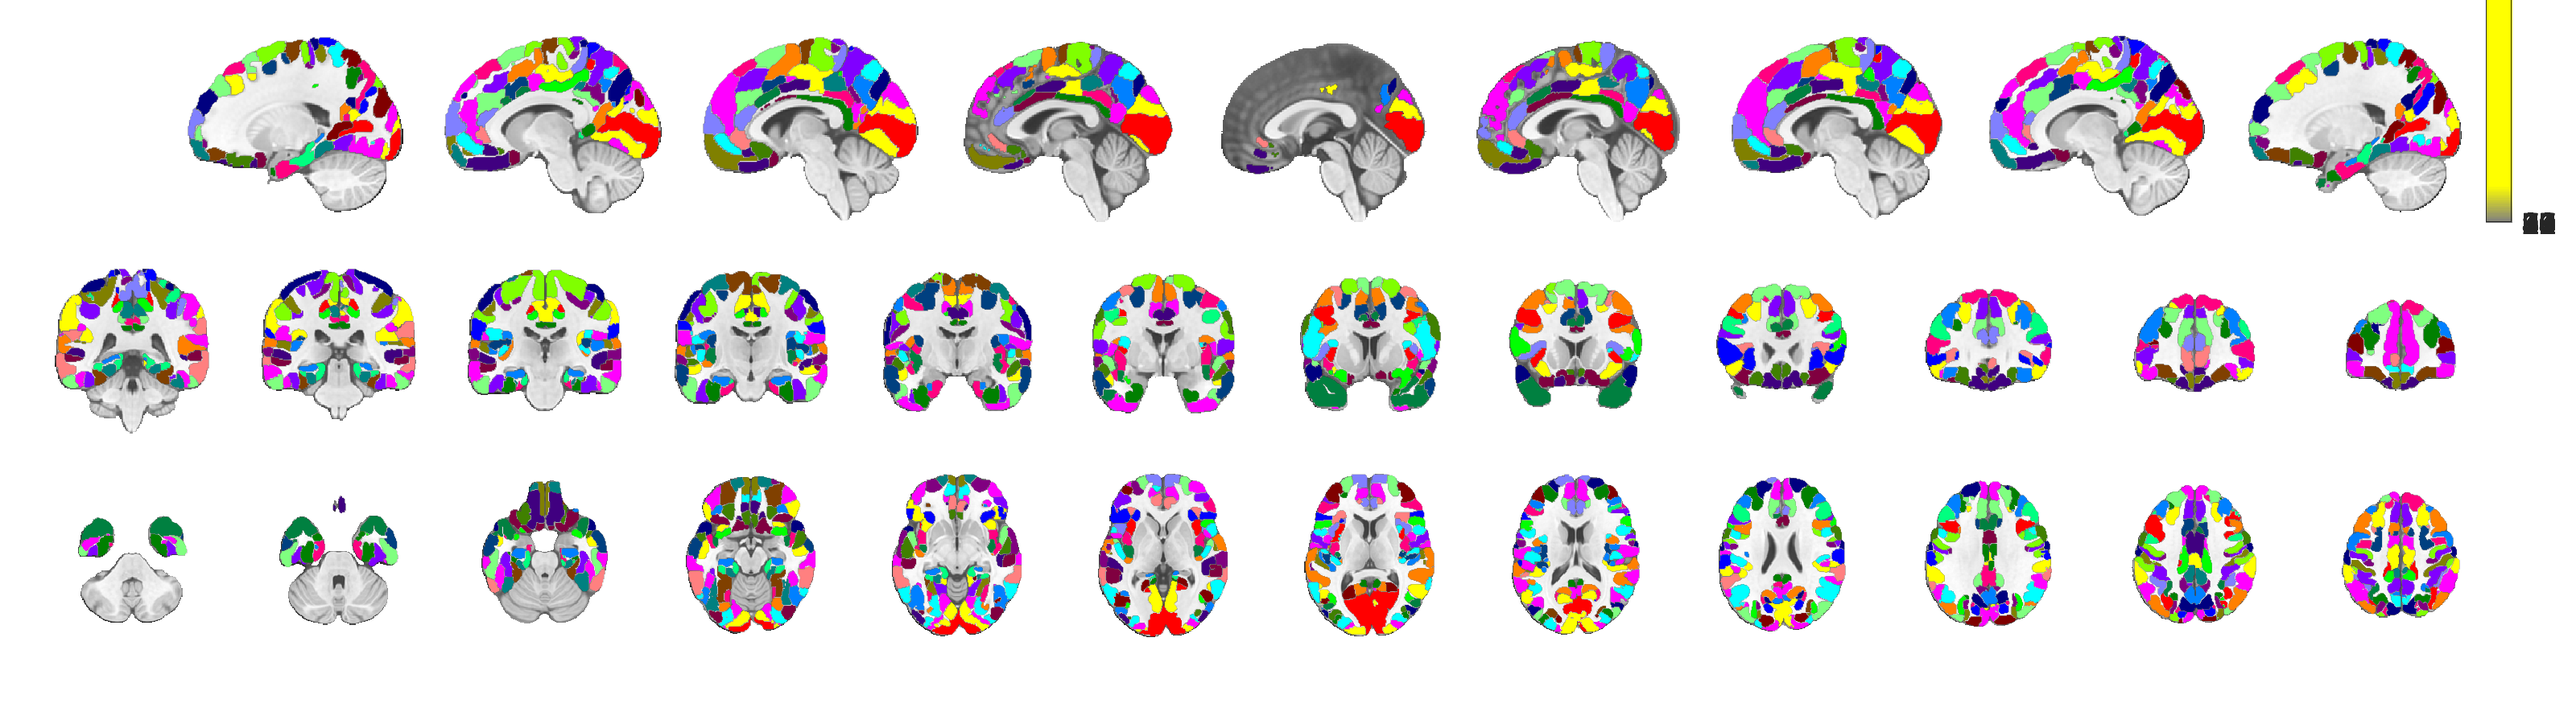
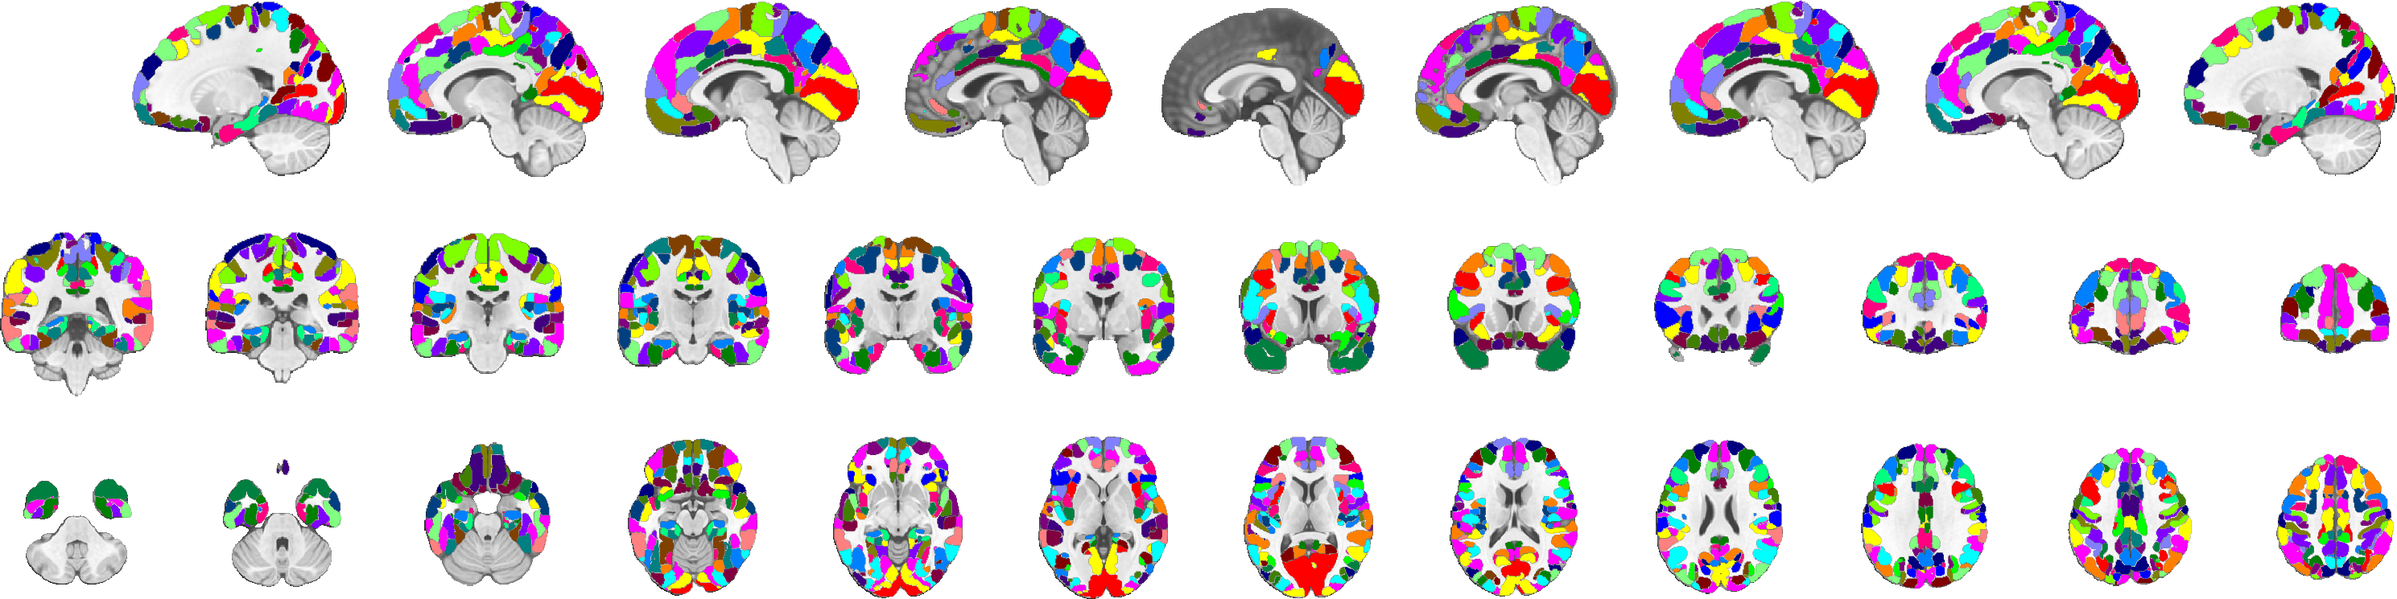
Incorporated spacetop into glasser diagnostics

diff --git a/Atlases_and_parcellations/2016_Glasser_Nature_HumanConnectomeParcellation/diagnostics/compare_registration_fusion_with_old_glasser.m b/Atlases_and_parcellations/2016_Glasser_Nature_HumanConnectomeParcellation/diagnostics/compare_registration_fusion_with_old_glasser.m
@@ -126,6 +126,11 @@ saveas(gcf,'dice_map_fmriprep_vs_fsl_glassers.png');
 
 %% let's also compare between studies within template
 
+% this is not cross validation, it's not an estimate of how similar
+% the glasser atlas will be to atlases derived from future studies, it's a
+% comparison of how homogeneous the studies we used to generate the atlas
+% are with respect to one another.
+
 addpath('/dartfs-hpc/rc/home/m/f0042vm/software/spm12')
 addpath(genpath('/dartfs-hpc/rc/home/m/f0042vm/software/canlab/CanlabCore/'))
 
@@ -135,46 +140,135 @@ lh_lbls = readtable('../lctx_labels.txt');
 rh_lbls = readtable('../rctx_labels.txt');
 lbls = [lh_lbls{:,1}; rh_lbls{:,1}];
 
-glasser = cell(2,1);
-studies = {'paingen','bmrk5'};
+glasser = cell(3,1);
+studies = {'paingen','bmrk5','spacetop'};
 for i = 1:length(glasser)
     study = studies{i}
     glasser{i} = atlas(sprintf('../%s_%s_atlas.nii.gz', study, SPACE));
     glasser{i}.labels = lbls';
 end
 
-% save individual atlases for inspection
+glasser{4} = glasser{2};
+glasser{5} = glasser{3}.resample_space(glasser{2}, 'nearest');
+assert(all(ismember(glasser{4}.labels, glasser{5}.labels)))
+
 glasser{2} = glasser{2}.resample_space(glasser{1}, 'nearest');
-
-
 assert(all(ismember(glasser{1}.labels, glasser{2}.labels)))
+
+glasser{3} = glasser{3}.resample_space(glasser{1}, 'nearest');
+assert(all(ismember(glasser{1}.labels, glasser{3}.labels)))
+
 labels = glasser{1}.labels;
-dicecoef = zeros(size(labels));
+dicecoef = zeros(size(labels,2),3);
 parfor i = 1:length(labels)
-    bmrk5_roi = glasser{1}.select_atlas_subset(labels(i));
-    paingen_roi = glasser{2}.select_atlas_subset(labels(i));
-    dicecoef(i) = dice(logical(bmrk5_roi.dat), logical(paingen_roi.dat));
+    spacetop_roi = glasser{3}.select_atlas_subset(labels(i));
+    bmrk5_roi = glasser{2}.select_atlas_subset(labels(i));
+    paingen_roi = glasser{1}.select_atlas_subset(labels(i));
+    pg_bk = dice(logical(bmrk5_roi.dat), logical(paingen_roi.dat));
+    pg_st = dice(logical(spacetop_roi.dat), logical(paingen_roi.dat));
+
+    bmrk5_roi =  glasser{4}.select_atlas_subset(labels(i));
+    spacetop_roi = glasser{5}.select_atlas_subset(labels(i));
+    bk_st = dice(logical(spacetop_roi.dat), logical(bmrk5_roi.dat));
+
+    dicecoef(i,:) = [pg_bk, pg_st, bk_st];
 end
 
-
 figure(21);
-hist(dicecoef);
-title({'Paingen vs.','Bmrk5 parcels'});
+subplot(1,3,1);
+hist(dicecoef(:,1),[0.2:0.05:1]);
+title({'PainGen vs.','BMRK5 parcels'});
 xlabel('Dice Coefficient');
 ylabel('Number of parcels')
 xlim([0.2,1])
-set(gca,'FontSize',13)
+
+subplot(1,3,2);
+hist(dicecoef(:,2),[0.2:0.05:1]);
+title({'Paingen vs.','Spactop parcels'});
+xlabel('Dice Coefficient');
+ylabel('Number of parcels')
+xlim([0.2,1])
+
+subplot(1,3,3);
+hist(dicecoef(:,3),[0.2:0.05:1]);
+title({'BMRK5 vs.','SpaceTop parcels'});
+xlabel('Dice Coefficient');
+ylabel('Number of parcels')
+xlim([0.2,1])
+
+for i = 1:3
+    subplot(1,3,i);
+    set(gca,'FontSize',13)
+end
+
 pos = get(gcf,'Position');
-set(gcf,'Position',[pos(1:2),388,330])
-saveas(gcf,'dice_hist_paingen_vs_bmrk5_glassers_MNI152NLin2009cAsym.png')
+set(gcf,'Position',[pos(1:2),1200,330])
+saveas(gcf,'dice_hist_interstudy_glassers_MNI152NLin2009cAsym.png')
+
 
 fmriprep20 = fmriprep20.remove_empty;
 volmap = fmriprep20;
-volmap.dat = dicecoef(fmriprep20.dat)';
+volmap.dat = mean(dicecoef(fmriprep20.dat,:),2);
 
 volmap = fmri_data(volmap);
 
 figure;
 volmap.montage('full2')
 
-saveas(gcf,'dice_map_paingen_vs_bmrk5_glassers_MNI152NLin2009cAsym.png');
+saveas(gcf,'dice_map_mean_bt_study_glassers_MNI152NLin2009cAsym.png');
+
+%% cross validated out of study dice coefficients
+% this tells us how similar the glasser atlas is likely to be with a random
+% new study
+fmriprep20 = load_atlas('glasser_fmriprep20').threshold(0.2);
+
+SPACE = 'MNI152NLin2009cAsym';
+
+lh_lbls = readtable('../lctx_labels.txt');
+rh_lbls = readtable('../rctx_labels.txt');
+lbls = [lh_lbls{:,1}; rh_lbls{:,1}];
+
+[glasser, glasser_wh] = deal(cell(3,1));
+studies = {'paingen','bmrk5','spacetop'};
+for i = 1:length(glasser_wh)
+    study = studies{i};
+    glasser_wh{i} = atlas(sprintf('../no_%s_%s_atlas.nii.gz', study, SPACE));
+    glasser_wh{i}.labels = lbls';
+    glasser{i} = atlas(sprintf('../%s_%s_atlas.nii.gz', study, SPACE));
+    glasser{i}.labels = lbls';
+end
+
+labels = glasser{1}.labels;
+dicecoef = zeros(size(labels,2),3);
+for k = 1:3
+    parfor i = 1:length(labels)
+        roi_test = glasser{k}.select_atlas_subset(labels(i));
+        roi_train = glasser_wh{k}.select_atlas_subset(labels(i));
+        dicecoef(i,k) = dice(logical(roi_test.dat), logical(roi_train.dat));
+    end
+end
+
+
+figure(31);
+hist(mean(dicecoef,2),[0.2:0.05:1]);
+title({'Study similarity to template','Out-of-study 3-fold CV Est.'});
+xlabel('Dice Coefficient');
+ylabel('Number of parcels')
+xlim([0.2,1])
+
+set(gca,'FontSize',13)
+pos = get(gcf,'Position');
+set(gcf,'Position',[pos(1:2),400,330])
+saveas(gcf,'dice_hist_out_of_study_CV_glassers_MNI152NLin2009cAsym.png')
+
+
+fmriprep20 = fmriprep20.remove_empty;
+volmap = fmriprep20;
+volmap.dat = mean(dicecoef(fmriprep20.dat,:),2);
+
+volmap = fmri_data(volmap);
+
+figure;
+volmap.montage('full2')
+
+saveas(gcf,'dice_map_mean_out_of_study_CV_glassers_MNI152NLin2009cAsym.png');

diff --git a/Atlases_and_parcellations/2016_Glasser_Nature_HumanConnectomeParcellation/create_glasser_atlas.m b/Atlases_and_parcellations/2016_Glasser_Nature_HumanConnectomeParcellation/create_glasser_atlas.m
@@ -49,10 +49,9 @@ gzip(glasser{3}.fullpath)
 glasser_joint = cell(length(pmap),2);
 for i = 1:length(pmap)
     these_ind = find(~ismember(1:length(pmap),i));
-    pdata.dat = mean(cat(3,pmap{these_ind}),3);
+    pdata.dat = sparse(mean(cat(3,pmap{these_ind}),3));
     glasser_joint{i} = atlas(pdata);
     glasser_joint{i}.labels = lbls';
-    glasser_joint{i}.probability_maps = sparse(glasser_joint{i}.probability_maps);
 end
 
 glasser_joint{1}.fullpath = sprintf('no_bmrk5_%s_atlas.nii', SPACE);

diff --git a/Atlases_and_parcellations/2016_Glasser_Nature_HumanConnectomeParcellation/README.md b/Atlases_and_parcellations/2016_Glasser_Nature_HumanConnectomeParcellation/README.md
@@ -179,15 +179,15 @@ Regardless of the cause, this recommends using the atlas projection that matches
 misattribution of labels.
 ![fmriprep vs fsl template maps](diagnostics/dice_map_fmriprep_vs_fsl_glassers.png)
 
-Alternatively we can look at the difference between studies, since we have two studies here. These show the
+Alternatively we can look at the difference between studies, since we have three studies here. These show the
 greatest agreement, with practically all dice coefficients greater than 0.7. This is fortunate, since it means
 between study variability is small relative to between subject variability, and it means we're closer to the number
 of degrees of freedom we need for stable estimates of parcel boundaries (Using a single study, so no study related 
 error, Wu et al. claim you need 300 participants for boundaries to fully stabalize).
 
-<img alt="paingen vs. bmrk5 to MNi152NLin2009cAsym" src="diagnostics/dice_hist_paingen_vs_bmrk5_glassers_MNI152NLin2009cAsym.png" width="500" />
+<img alt="paingen vs. bmrk5 to MNi152NLin2009cAsym" src="diagnostics/dice_hist_mean_bt_study_glassers_MNI152NLin2009cAsym.png" width="500" />
 
-<img alt="paingen vs. bmrk5 map" src="diagnostics/dice_map_paingen_vs_bmrk5_glassers_MNI152NLin2009cAsym.png" />
+<img alt="paingen vs. bmrk5 map" src="diagnostics/dice_map_interstudy_glassers_glassers_MNI152NLin2009cAsym.png" />
 
 Dice coefficients in the range of 0.8 are what the original authors who came up with registration fusion (wu et al 2018)
 found when comparing their best methods with a gold standard comparator. This demonstrates that the alignments we have
@@ -197,11 +197,12 @@ directly if you want more insight into what's going on here.
 
 Consistency across studies is a nice feature, but it doesn't actually tell us how well these parcellations approximate
 their true surface labels. For that we need to apply the parcels to real data available in both surface and volumetric
-space. The two studies used to generate these parcellations were PainGen and BMRK5, which include noxious heat, 
+space. Two of the studies used to generate these parcellations were PainGen and BMRK5, which include noxious heat, 
 pressure and two types of auditory stimuli: ones with aversive qualities (e.g. nails on a chalkboard) and ones with 
 aversive significance (e.g. someone screaming). We can't test our parcellation on these directly, because that would be
 double dipping, but we can take a cross validation approach to evaluate our registration fusion method by generating
-parcels from BMRK5 to test in PainGen and generating parcels from PainGen to test on BMRK5 data. This is what we do below.
+parcels from BMRK5 and spacetop to test in PainGen and generating parcels from PainGen and spacetop to test on BMRK5 data. 
+This is what we do below.
 
 For paingen we fit an evoked response model that captures the mean BOLD response to heat and pressure stimuli across trials.
 We convert this to a t-statistic for each individual and average them across 218 independent individuals (no familial
@@ -217,7 +218,7 @@ estimates in this case). The results are shown in the figure below.
 The first thing to notice is that group t-stats are more than 2x higher in the surface data than the volumetric data.
 This is not the case when evaluating individual participants (not shown), showing that this improvement in second
 level t-stats is the result of projecting data to a surface. On the one hand there's some smoothing that happens due to 
-interpolation from voxels to surface verticeswhen projecting data to surfaces, but you would expect to see that at the 
+interpolation from voxels to surface vertices when projecting data to surfaces, but you would expect to see that at the 
 individual subject level too, and we don't see a similar asymmetry in t-stats. Rather this is the result of averaging
 across subject specifically, suggesting that averaging across surfaces results in more constructive and less destructive
 interference than averaging across volumes. In other words, surface alignment is much more accurate than volumetric 
